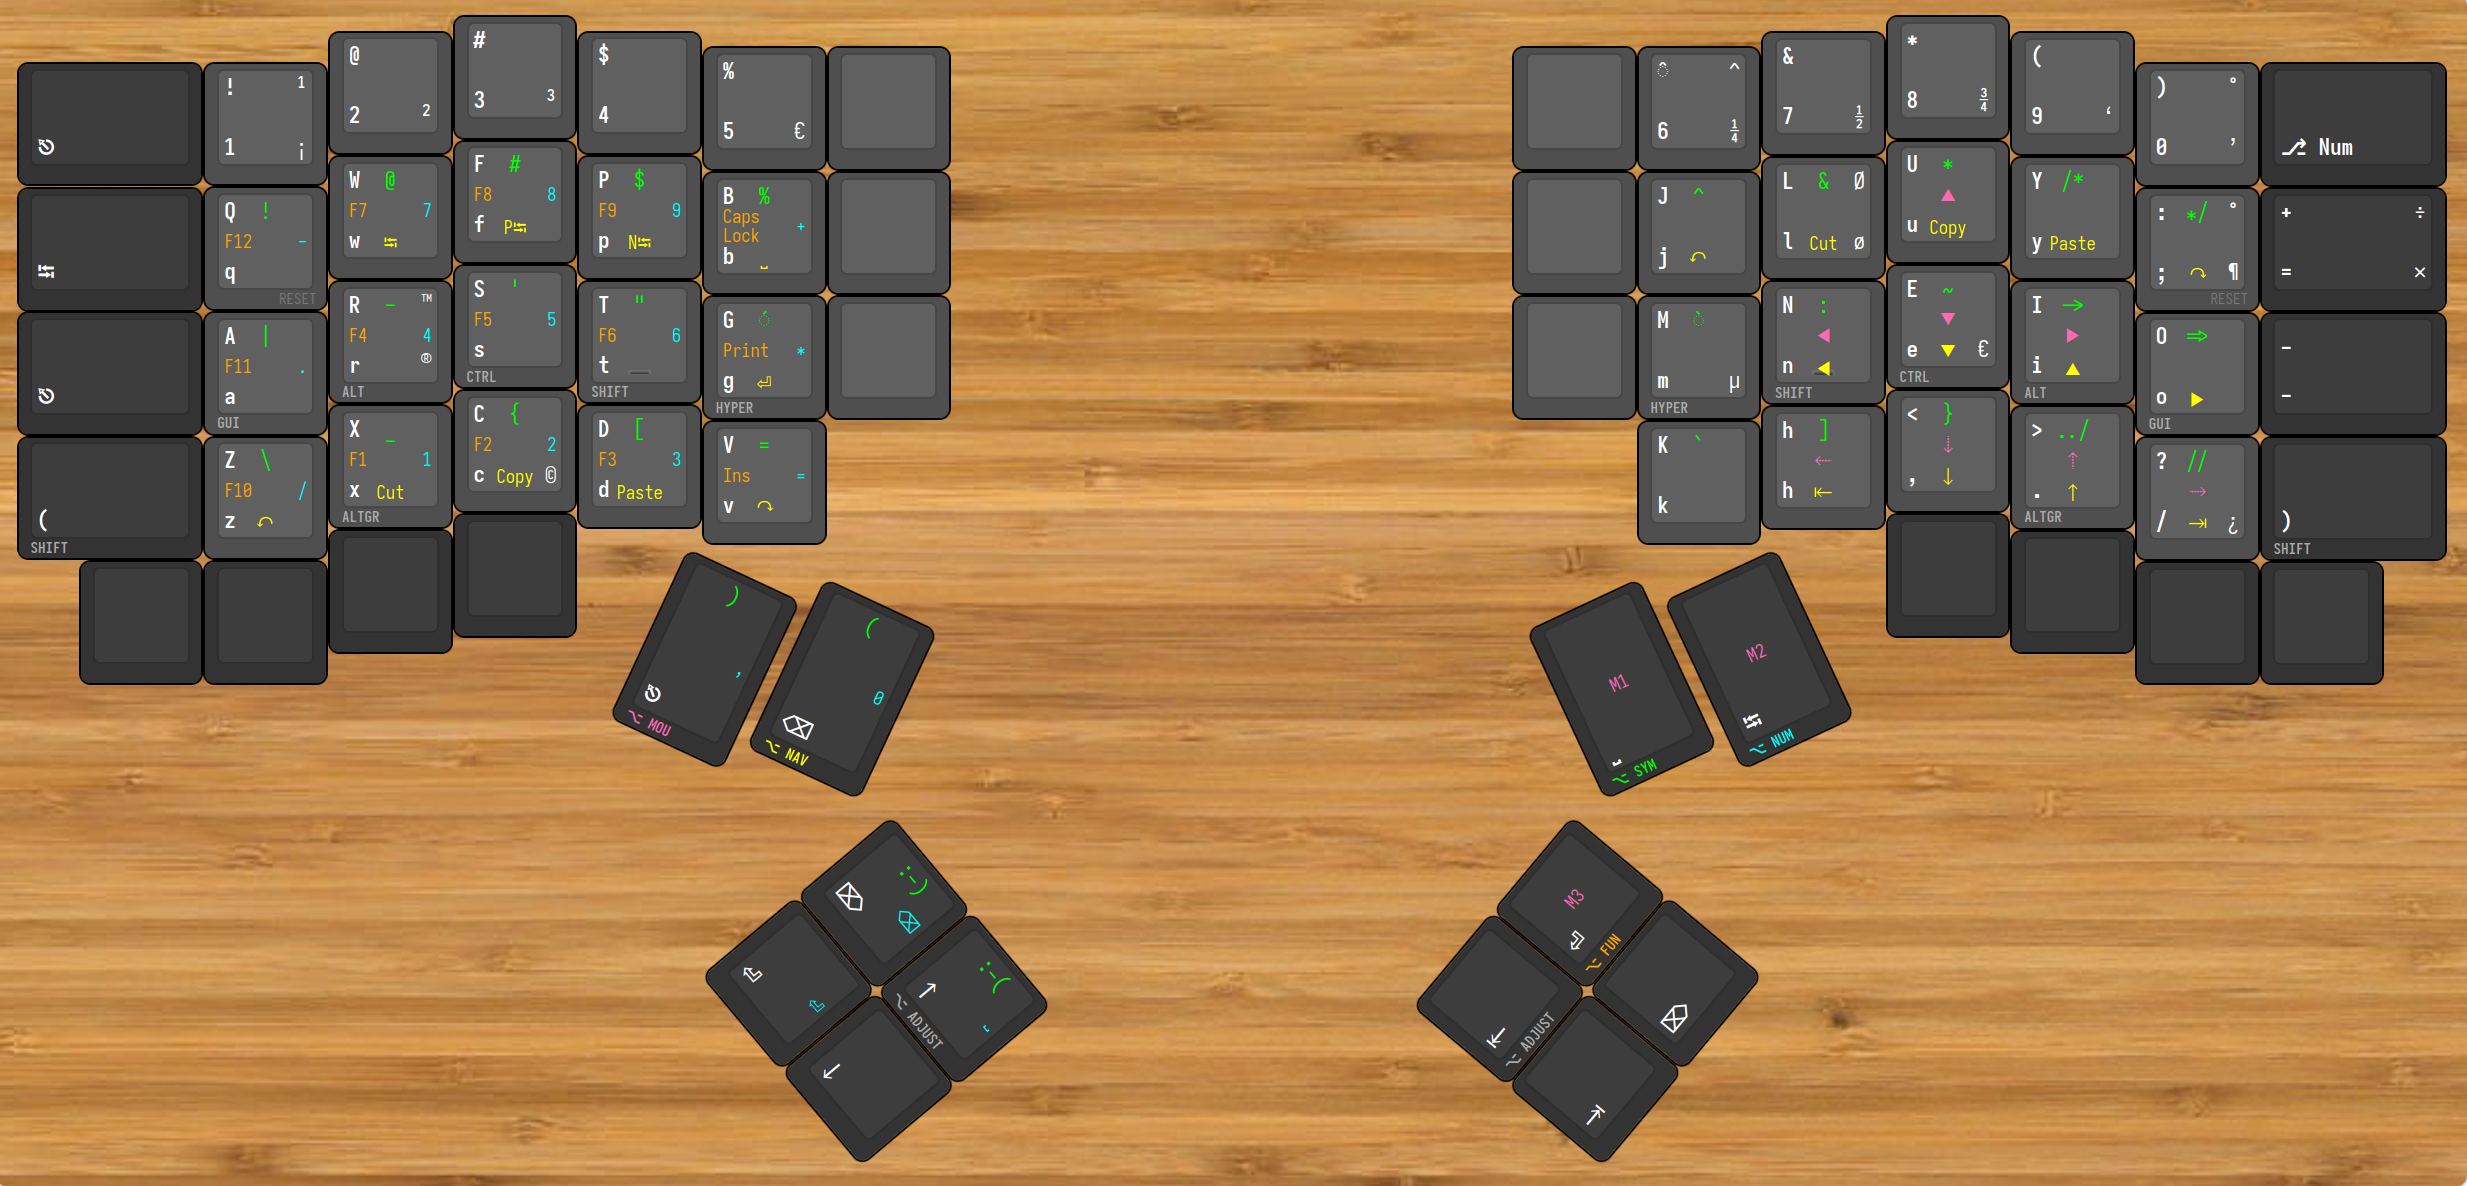
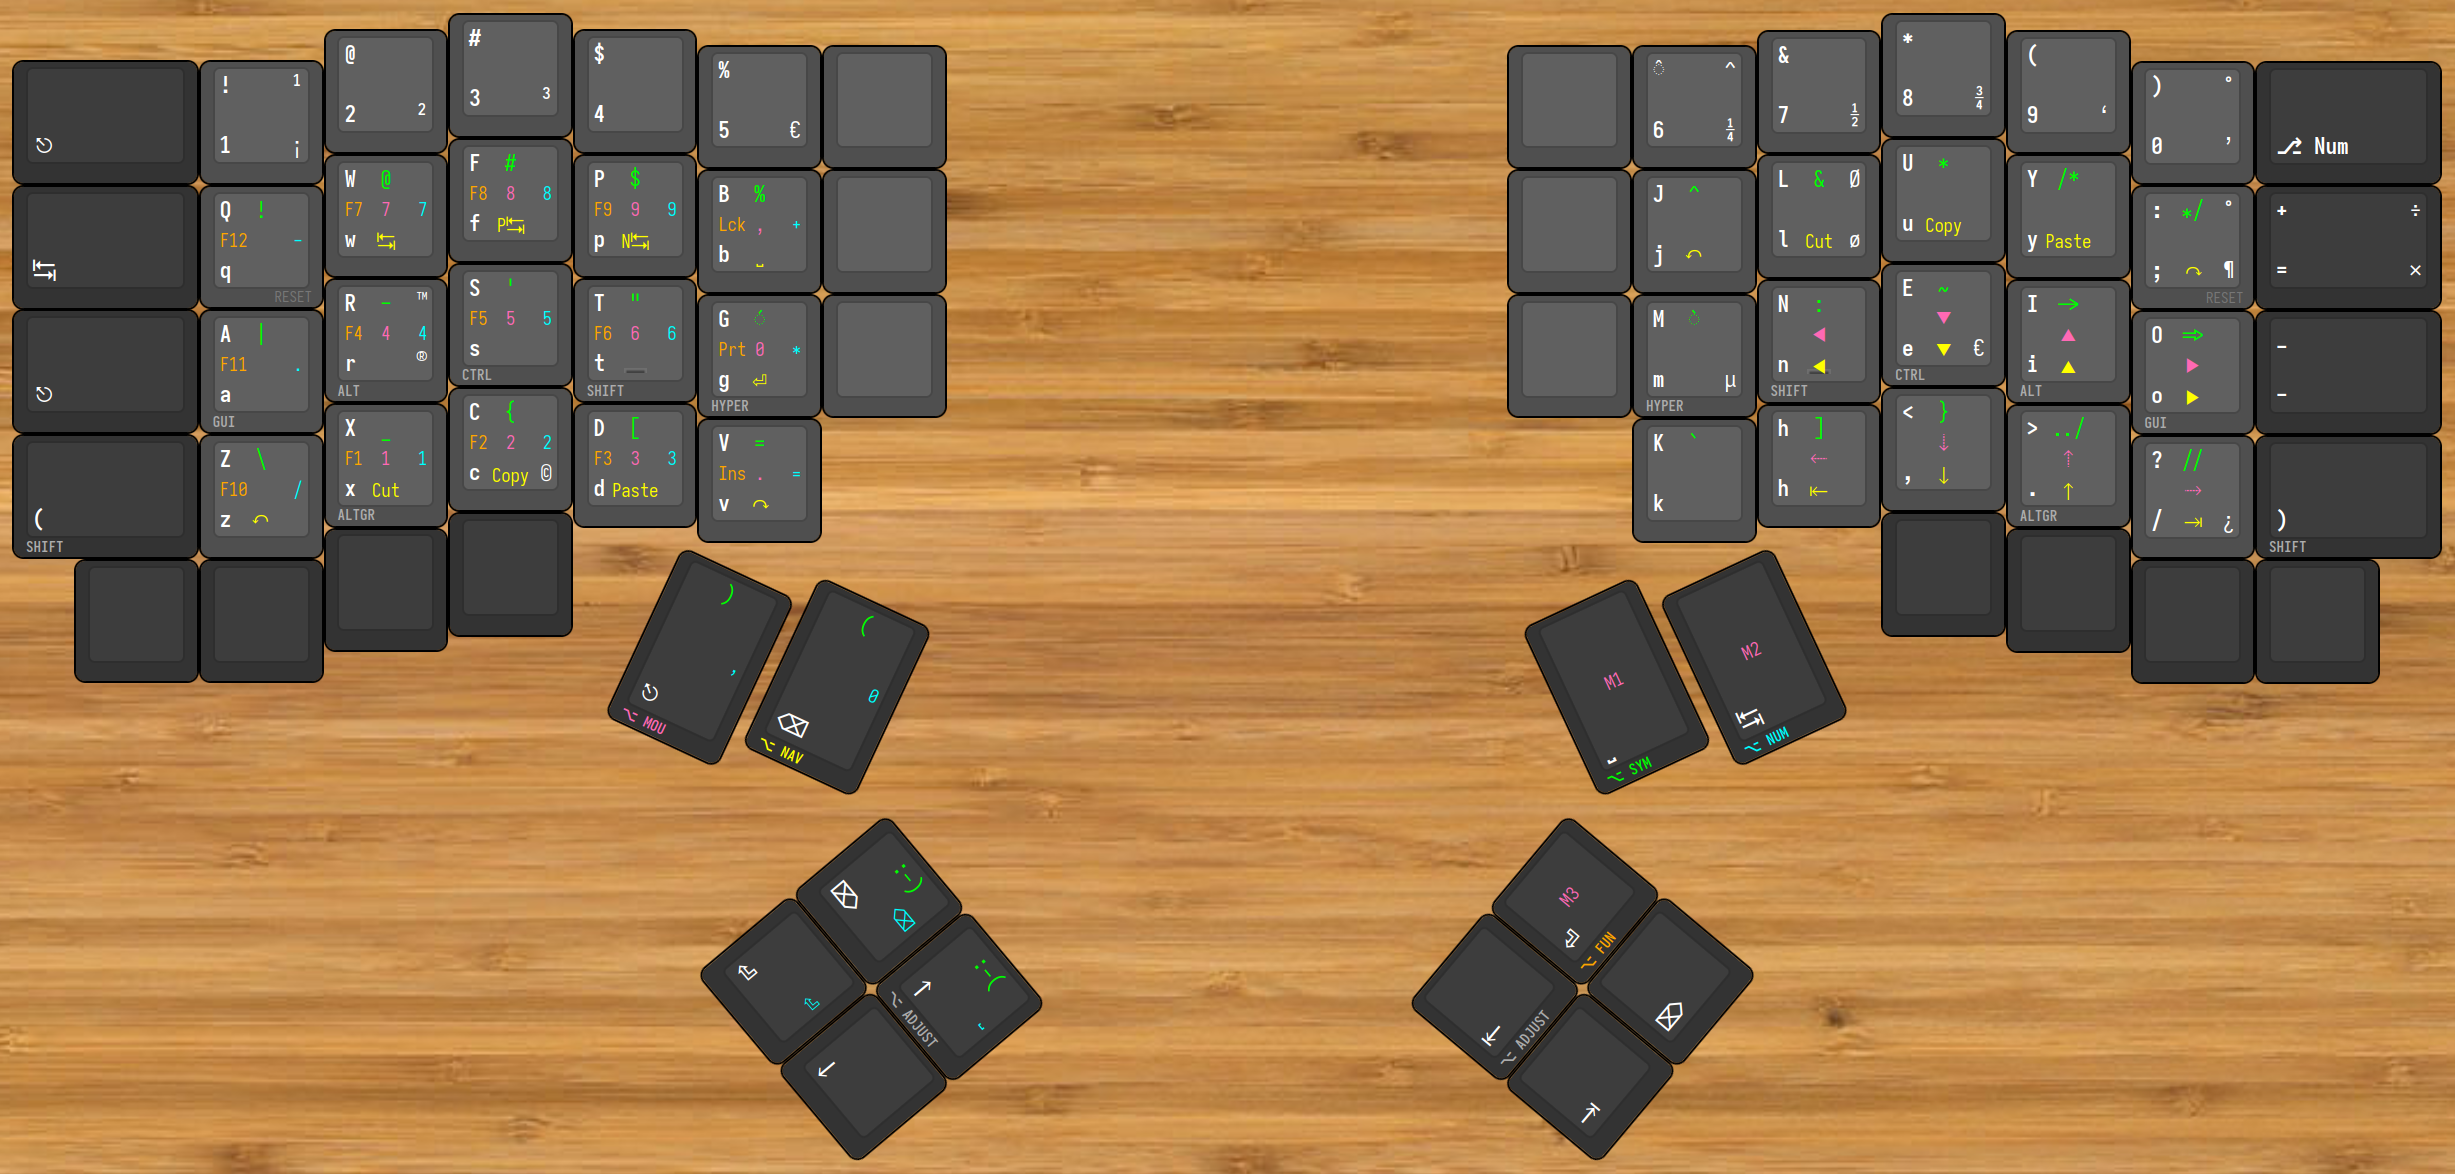
Updated mouse layer with keypad and home row movements.

diff --git a/keymap.c b/keymap.c
@@ -156,9 +156,9 @@ uint16_t get_tapping_term(uint16_t keycode, keyrecord_t *record) {
 
   // Pinkies
   case KC_GU_O:
-    return TAPPING_TERM + 200;
+    return TAPPING_TERM + 300;
   case KC_GU_A:
-    return TAPPING_TERM + 100;
+    return TAPPING_TERM + 150;
 
   // Ring fingers
   case KC_AL_I:
@@ -269,17 +269,17 @@ const uint16_t PROGMEM keymaps[][MATRIX_ROWS][MATRIX_COLS] = {
 [_MOUS] = LAYOUT_5x7(
   // left hand
    XXXXXXX ,XXXXXXX ,XXXXXXX ,XXXXXXX ,XXXXXXX ,XXXXXXX ,XXXXXXX ,
-   XXXXXXX ,C(KC_Q) ,C(KC_W) ,C(KC_F) ,C(KC_P) ,C(KC_B) ,XXXXXXX ,
-   XXXXXXX ,C(KC_A) ,C(KC_R) ,C(KC_S) ,C(KC_T) ,C(KC_G) ,XXXXXXX ,
-   XXXXXXX ,U_UND   ,U_CUT   ,U_CPY   ,U_PST   ,U_RDO   ,
+   XXXXXXX ,XXXXXXX ,KC_7    ,KC_8    ,KC_9    ,KC_COMM ,XXXXXXX ,
+   XXXXXXX ,XXXXXXX ,KC_4    ,KC_5    ,KC_6    ,KC_0    ,XXXXXXX ,
+   XXXXXXX ,XXXXXXX ,KC_1    ,KC_2    ,KC_3    ,KC_DOT  ,
    XXXXXXX ,XXXXXXX ,XXXXXXX ,XXXXXXX ,
                                   XXXXXXX ,XXXXXXX ,
                                   _______ ,XXXXXXX ,
                                   XXXXXXX ,XXXXXXX ,
    // right hand
                      XXXXXXX ,XXXXXXX ,XXXXXXX ,XXXXXXX ,XXXXXXX ,XXXXXXX ,_______ ,
-                     XXXXXXX ,XXXXXXX ,XXXXXXX ,KC_MS_U ,XXXXXXX ,XXXXXXX ,XXXXXXX ,
-                     XXXXXXX ,XXXXXXX ,KC_MS_L ,KC_MS_D ,KC_MS_R ,XXXXXXX ,XXXXXXX ,
+                     XXXXXXX ,XXXXXXX ,XXXXXXX ,XXXXXXX ,XXXXXXX ,XXXXXXX ,XXXXXXX ,
+                     XXXXXXX ,XXXXXXX ,KC_MS_L ,KC_MS_D ,KC_MS_U ,KC_MS_R ,XXXXXXX ,
                               XXXXXXX ,KC_WH_L ,KC_WH_D ,KC_WH_U ,KC_WH_R ,XXXXXXX ,
                                        XXXXXXX ,XXXXXXX ,XXXXXXX ,XXXXXXX ,
         KC_BTN1 ,KC_BTN2 ,

diff --git a/config.h b/config.h
@@ -27,7 +27,7 @@ along with this program.  If not, see <http://www.gnu.org/licenses/>.
 
 /* Fine tuning */
 // - Reduce errors on fast typing
-#define IGNORE_MOD_TAP_INTERRUPT
+/* #define IGNORE_MOD_TAP_INTERRUPT */
 // - Enable rapid switch from tap to hold, disables double tap hold auto-repeat.
 // #define TAPPING_FORCE_HOLD
 // - enable TAPPING_FORCE_HOLD only on single keys (home row mods) in order to allow auto-repeat on all other keys (like backspace or space).
